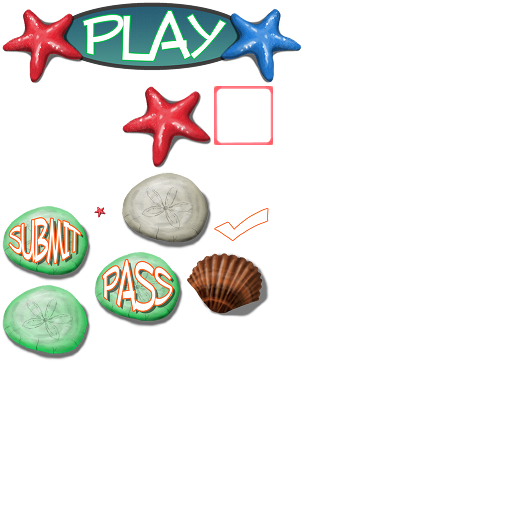
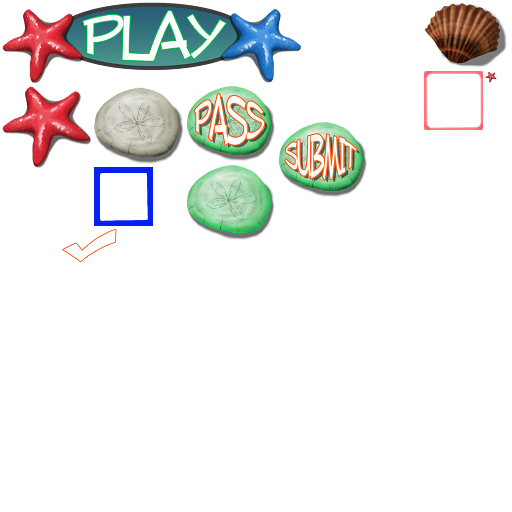
- move mid-display to higher than middle since we place "wait for your turn" sign at the middle - add fade-in/out blue square effect on triple tab action

Changed region(s): [[0.0, 0.1562, 0.7188, 0.7188], [0.8125, 0.0, 1.0, 0.25], [0.8438, 0.25, 0.9375, 0.2812]]

diff --git a/Classes/WordGame.m b/Classes/WordGame.m
@@ -221,7 +221,7 @@
 		player2Words = [[NSMutableArray array] retain];
 		
 		midDisplay = [[CCLabelTTF labelWithString:[NSString stringWithFormat:@"", 10] fontName:@"MarkerFelt-Thin" fontSize:48] retain];
-		midDisplay.position = ccp(windowSize.width/2, windowSize.height/2);
+		midDisplay.position = ccp(windowSize.width/2, windowSize.height/1.5);
 		midDisplay.color = ccc3(255, 193, 37);
 		[self addChild:midDisplay z:40];
 		
@@ -392,6 +392,13 @@
     redSquare.position = cell.letterSprite.position;
     [batchNode addChild:redSquare];
     [redSquare runAction:[CCSequence actions:[CCFadeOut actionWithDuration:1], [CCCallFuncN actionWithTarget:self selector:@selector(cleanUpSprite:)], nil]];
+}
+
+- (void) showBlueSquareAtCell:(Cell *) cell {
+    CCSprite *blueSquare = [CCSprite spriteWithSpriteFrameName:@"BlueSquare.png"];
+    blueSquare.position = cell.letterSprite.position;
+    [batchNode addChild:blueSquare];
+    [blueSquare runAction:[CCSequence actions:[CCFadeOut actionWithDuration:1], [CCCallFuncN actionWithTarget:self selector:@selector(cleanUpSprite:)], nil]];
 }
 
 - (void) openRandomLetters:(int) n {
@@ -735,6 +742,7 @@
 
 - (void) handleTripleTapWithCell:(Cell *) cell AtRow:(int)r Col:(int)c {
     CCLOG(@"Triple-Tap detected !!");
+    [self showBlueSquareAtCell:cell];
     char ch = (arc4random() % 26) + 'a';
     Cell *newCell = [self cellWithCharacter:ch atRow:r atCol:c];
     cell.letterSprite.visible = NO;

diff --git a/Classes/SinglePlayer.mm b/Classes/SinglePlayer.mm
@@ -221,7 +221,7 @@
 	[self clearLetters];
     player1TileFlipped = NO;
     player2TileFlipped = NO;
-    tripleTabUsed = YES;
+    tripleTabUsed = NO;
 		
 	if (player == 1 && [[player1Timer string] intValue] > 0) {
         playerTurn = 1;	
